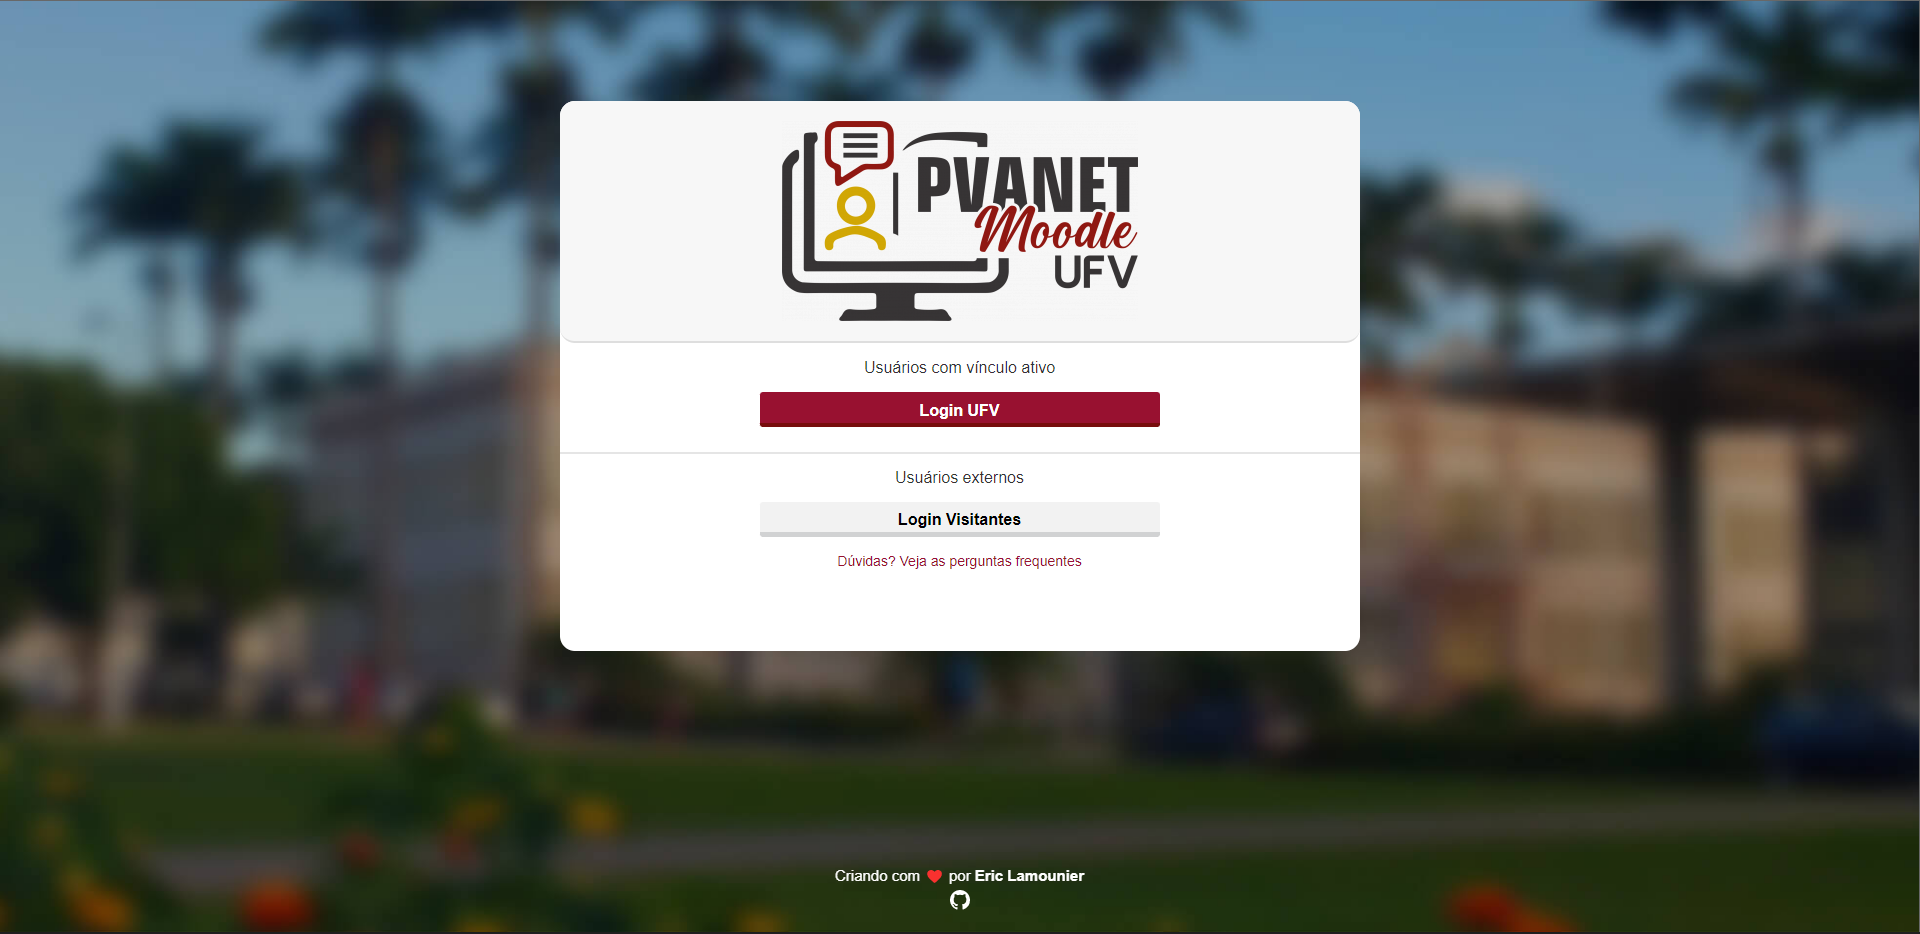
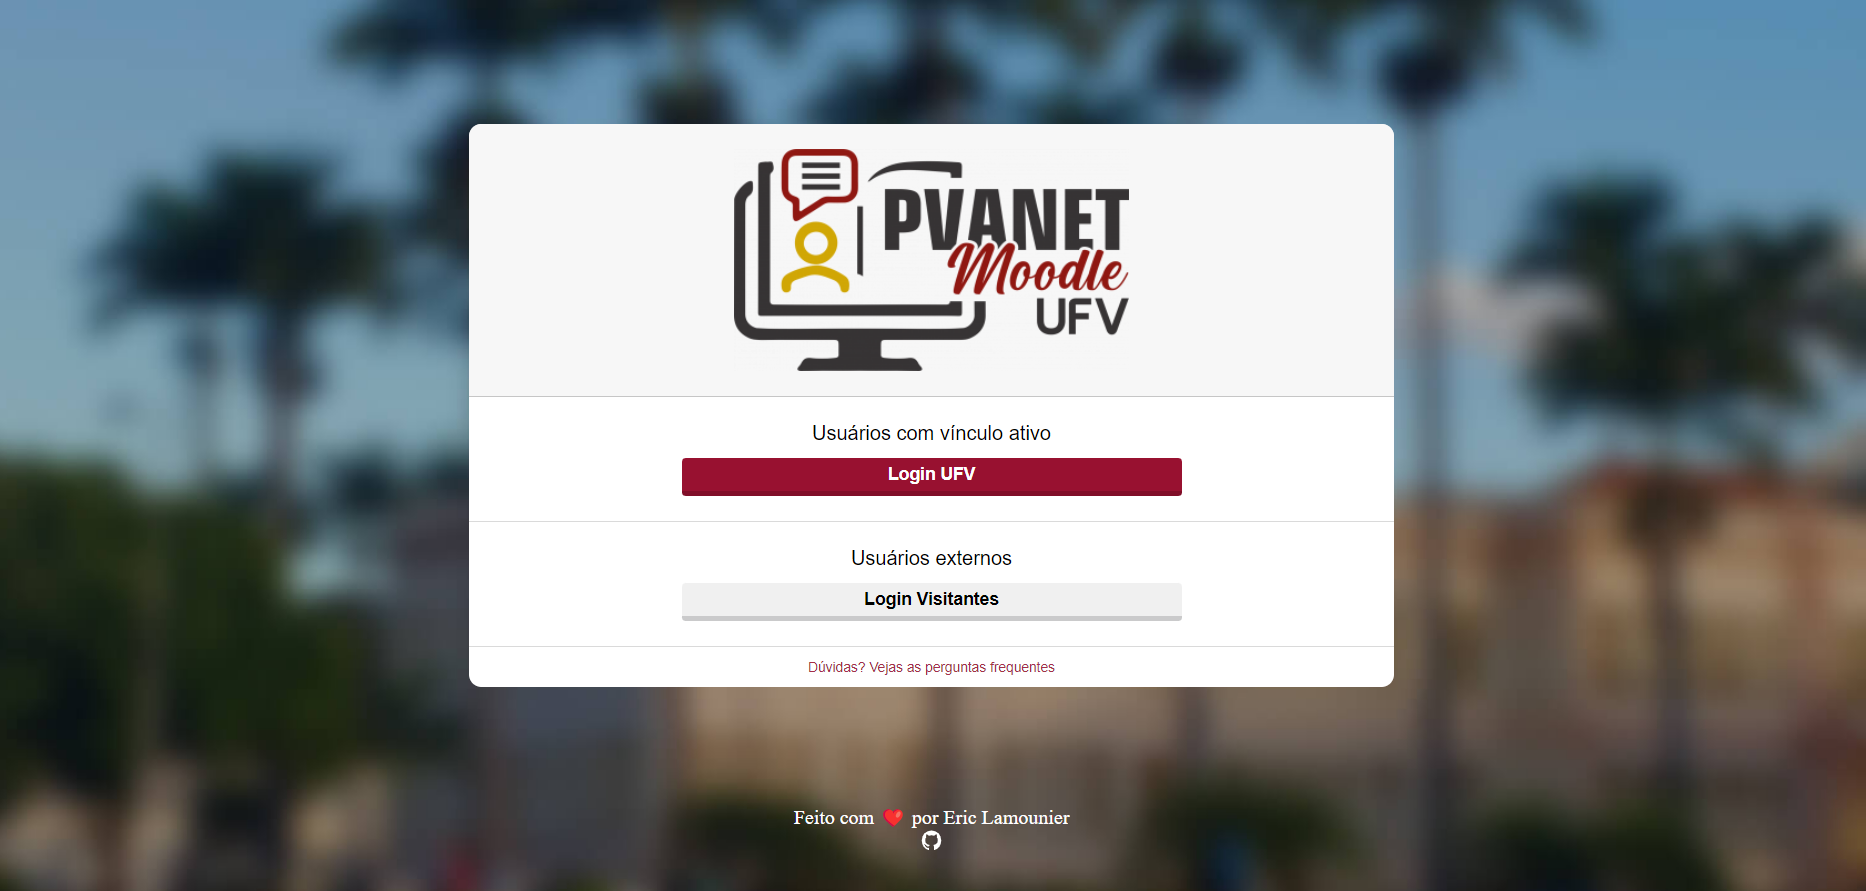
alteracao imagem readme

diff --git a/index.html b/index.html
@@ -1,5 +1,5 @@
 <!DOCTYPE html>
-<html lang="en">
+<html lang="pt-br">
 <head>
     <meta charset="UTF-8">
     <meta http-equiv="X-UA-Compatible" content="IE=edge">

diff --git a/readme.md b/readme.md
@@ -1,6 +1,6 @@
 # Cadastro e listagem de produto: Processo seletivo OAK
 
-![preview](./images/)
+![preview](./.github/preview.jpg)
 
 Projeto construído em estudos básicos iniciais de HTML5 e CSS3 na recriação da página de login da Universidade Federal de Viçosa
 
